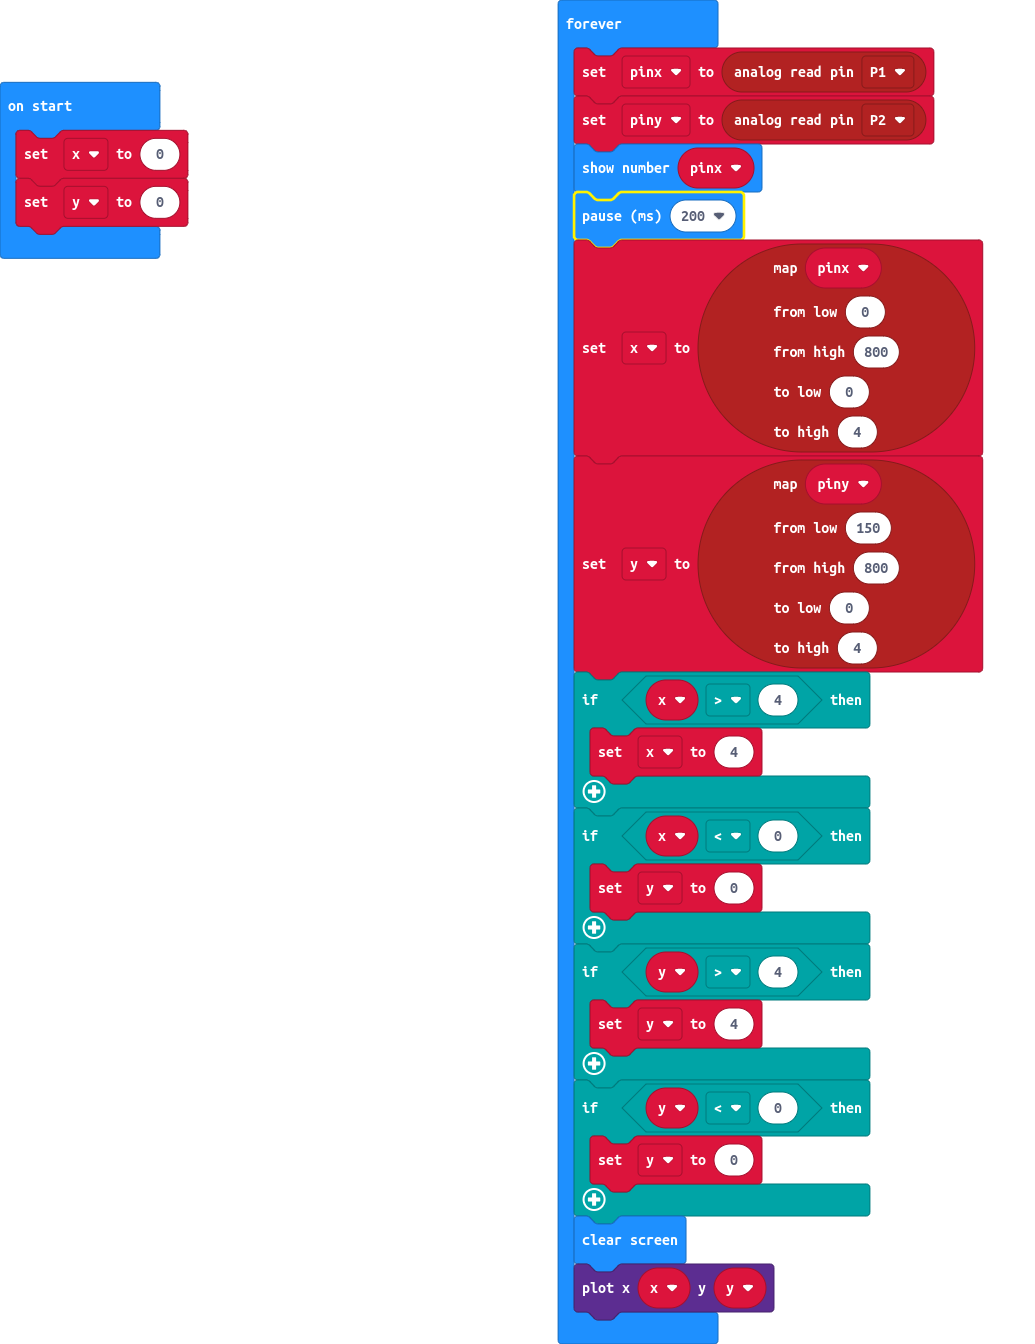
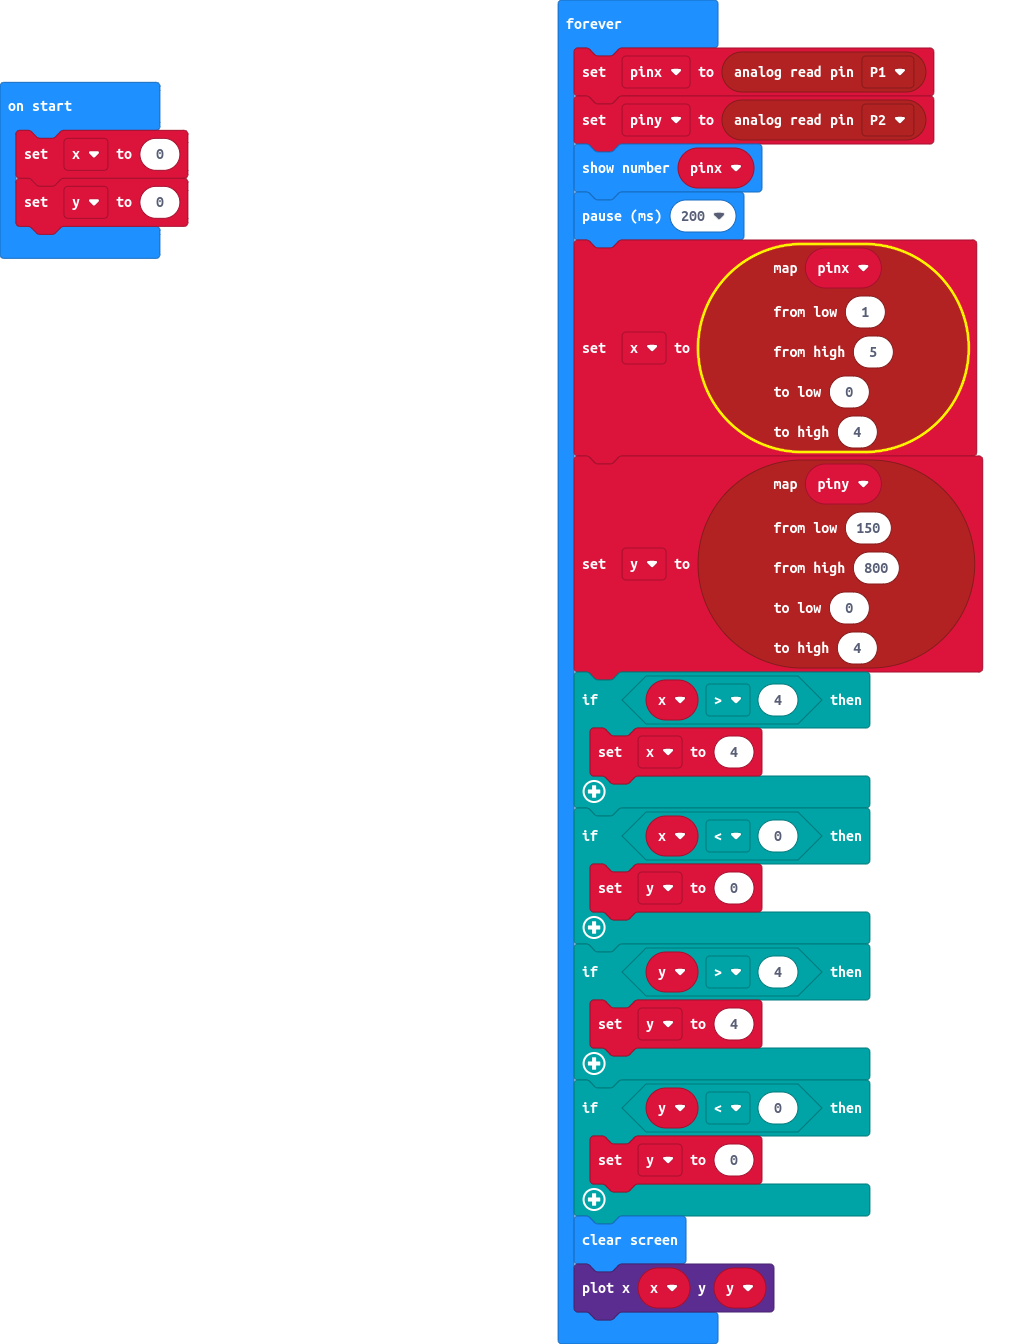
adjust for actual value

diff --git a/main.ts b/main.ts
@@ -9,8 +9,8 @@ basic.forever(function () {
     basic.pause(200)
     x = pins.map(
     pinx,
-    0,
-    800,
+    1,
+    5,
     0,
     4
     )
